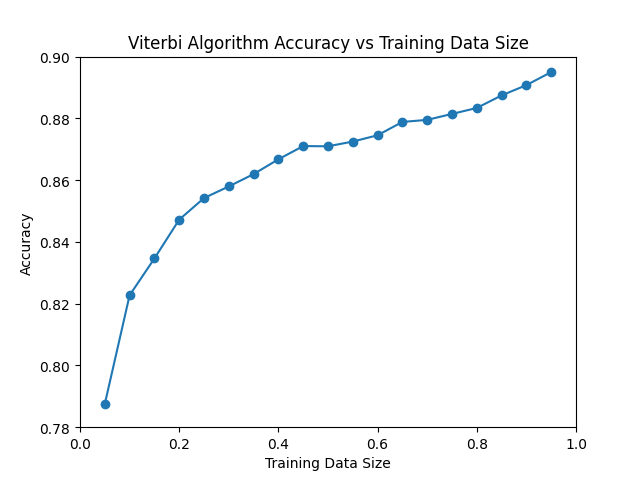
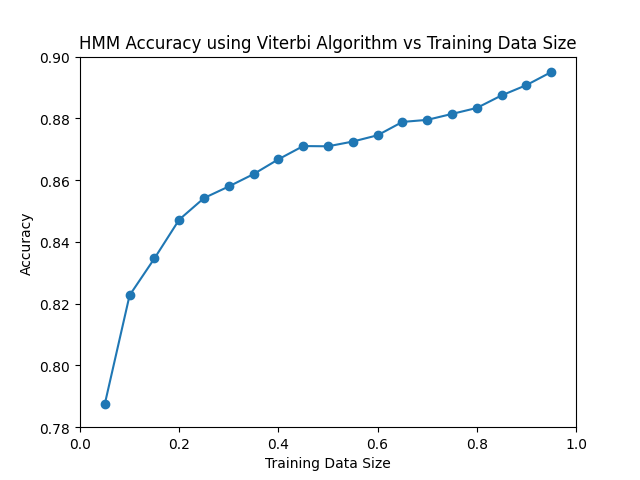
changed title of the plot

Changed region(s): [[0.125, 0.0625, 0.9062, 0.125]]

diff --git a/real_data.py b/real_data.py
@@ -156,5 +156,5 @@ plt.plot(train_data_size, accuracies, marker='o')
 plt.xlabel('Training Data Size')
 plt.ylabel('Accuracy')
 plt.axis((0, 1, 0.78, 0.9))
-plt.title('Viterbi Algorithm Accuracy vs Training Data Size')
+plt.title('HMM Accuracy using Viterbi Algorithm vs Training Data Size')
 plt.show()
